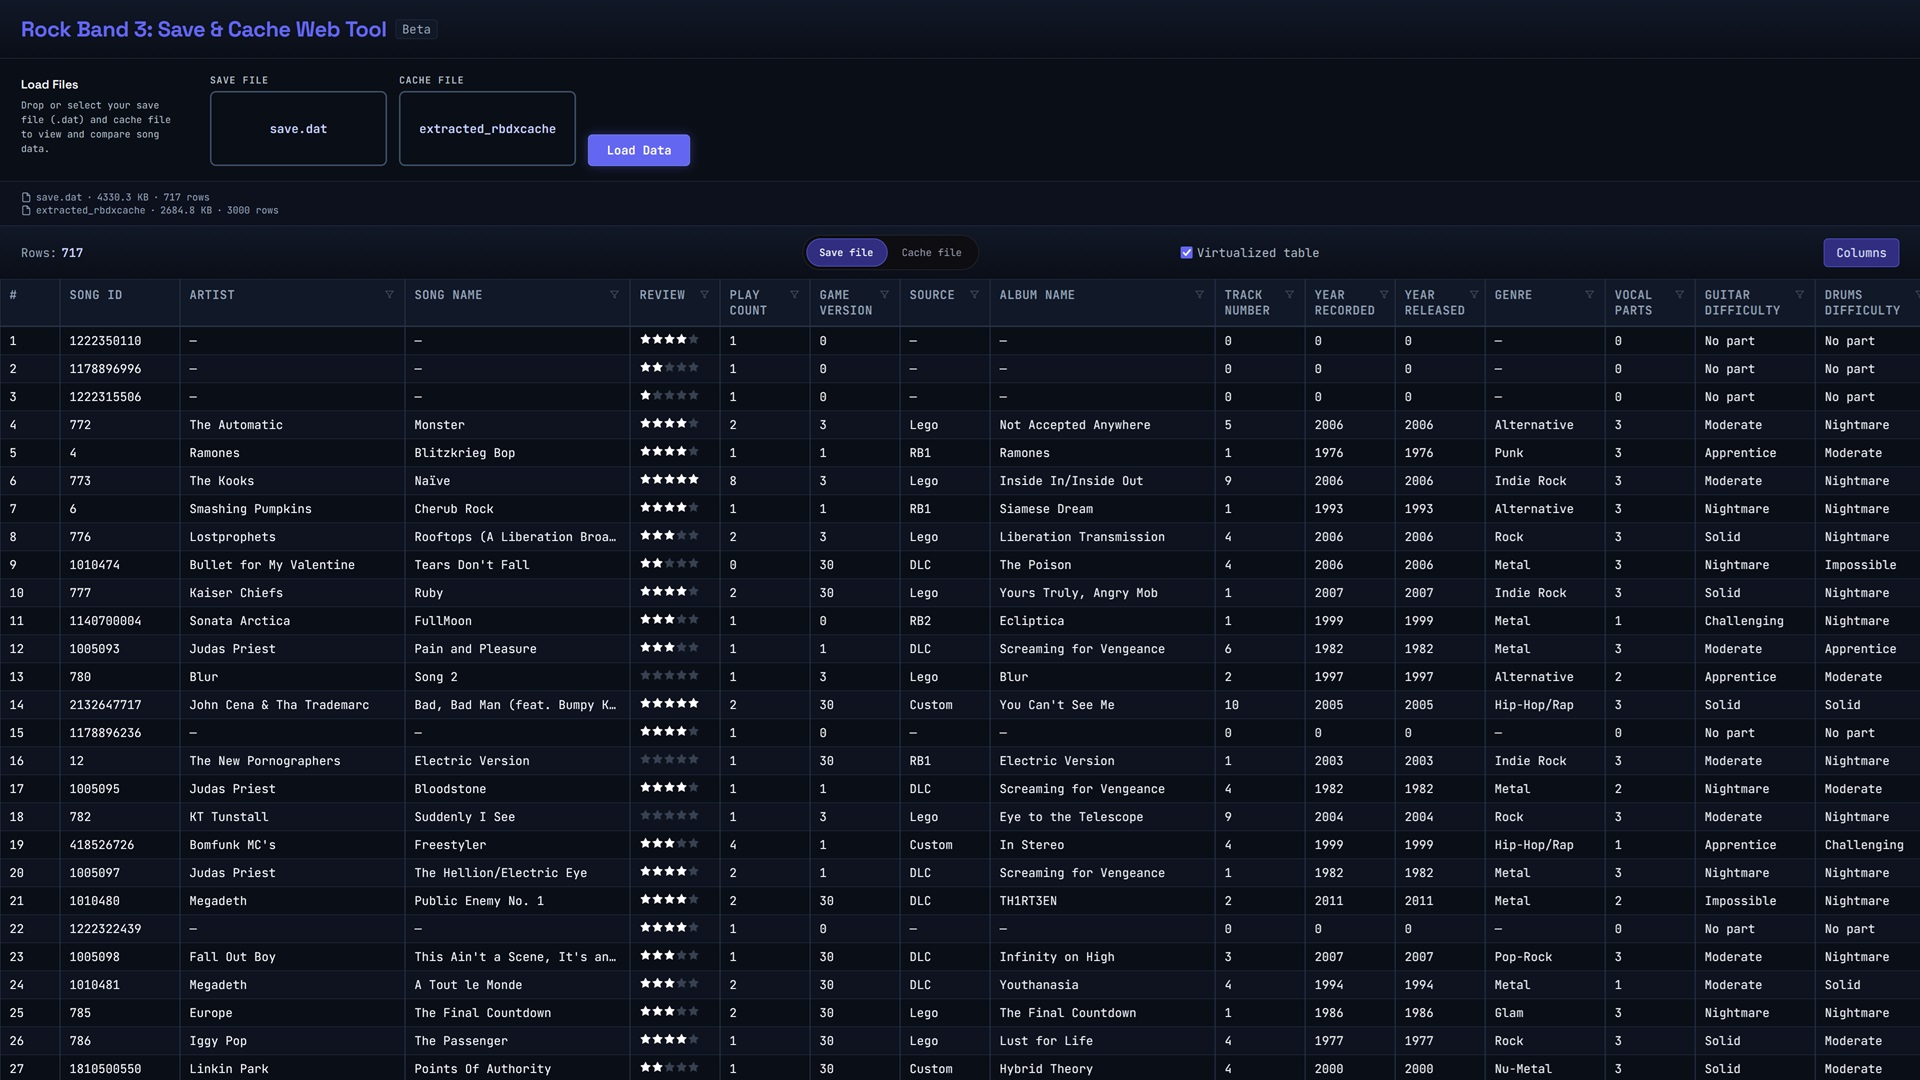
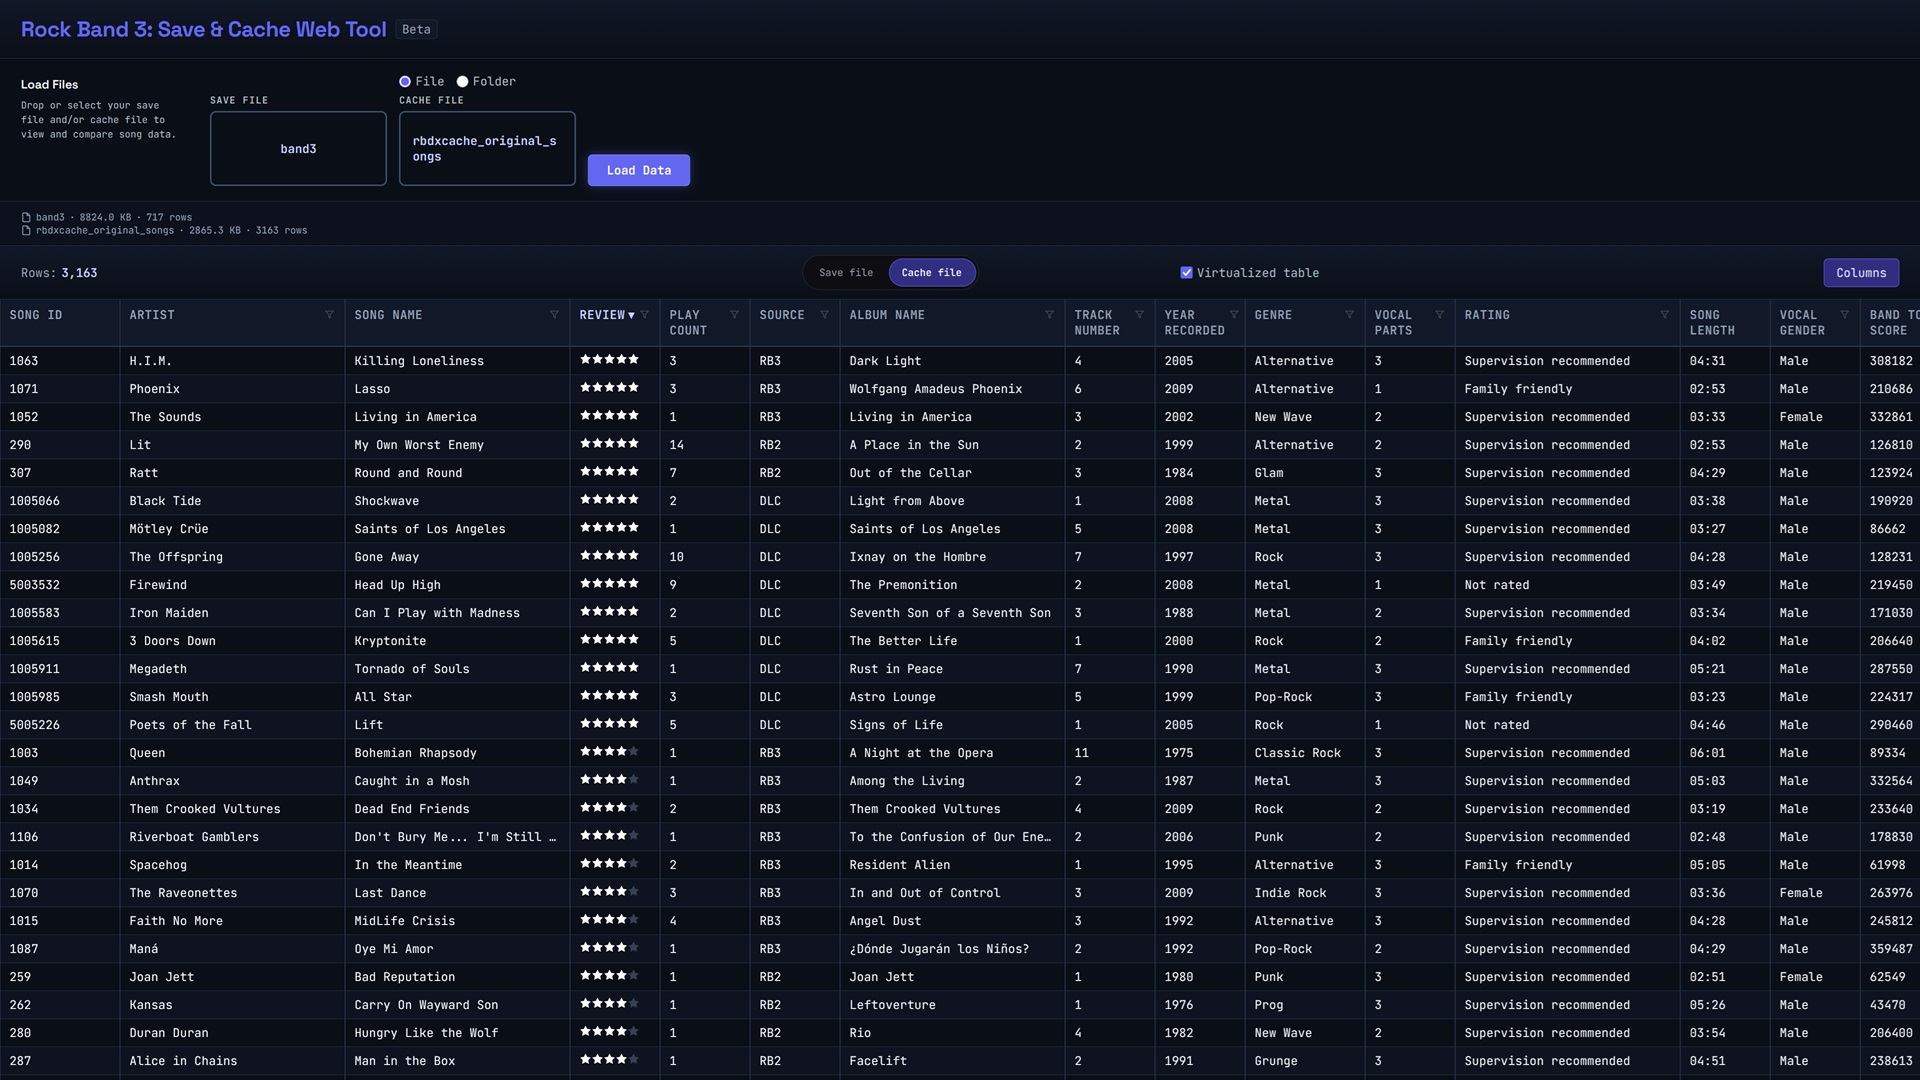
doc: update readme for new functionalities

diff --git a/README.md b/README.md
@@ -4,7 +4,7 @@
 
 ## Purpose
 
-Allows the user to read their save and cache files from Rock Band 3 and display them in a table format.
+Allows the user to read their save files, cache files, or songs.dta from Rock Band 3 and display the contents in a table format.
 
 ## Requirements
 
@@ -16,7 +16,8 @@ Allows the user to read their save and cache files from Rock Band 3 and display 
 - Xbox 360
   - Extracted save.dat
   - Extracted songcache or rbdxcache
-  - Extraction can be done by dragging and dropping the file into Nautilus. The extraction functionality (STFS) for this app is still a WIP
+  - STFS packaged band3, songcache or rbdxcache file
+  - A folder\* of .rb3con files, which will be scanned for their songs.dta files
 
 - Wii
   - band3.dat
@@ -24,10 +25,13 @@ Allows the user to read their save and cache files from Rock Band 3 and display 
 
 - PS3
   - SAVE.DAT
+  - A folder\* of songs containing their songs.dta files
 
 The files I have tested are from specific versions of the game. There might be subtle differences with older versions that could make them unreadable. Contact me if you run into an issue and I can try to add support for them.
 
-PS3 does not produce a cache file, but I'm planning to add support for a folder selector. It would go through a folder and all its subfolders to read the songs.dta file and get similar data into the table.
+The songs.dta files, while containing more information than cache files, vary in both content and formatting depending on the era and the tools used to build them. For example, official Rock Band 1 songs do not include ID numbers, which makes matching them with save data difficult. To mitigate the missing IDs, there is an [ID lookup table](./src/assets/static/OfficialSongIds.ts) for the official songs that should contain all of them (or at least 99%).. The format differences can cause issues with mapping, resulting in missing data or values that appear incorrect even when the underlying information exists.
+
+\*Folder scanning also searches all subfolders to find appropriate files.
 
 ## Usage
 
@@ -40,6 +44,8 @@ Data available in [save file](./src/types/file/SongRowSave.ts).
 Data available in [cache file](./src/types/file/SongRowCache.ts).
 
 When a cache file is provided, the Rock Band 3 on-disc songs are also read from a separate .dta file, since they are not included in the cache files.
+
+Alternatively, instead of a cache file, you can select a folder. The tool will scan the folder and all subfolders for songs.dta files. If none are found, it will switch to searching for STFS‑packaged songs and extract songs.dta files from inside them. If any valid files are found using either method, the Rock Band 3 on‑disc song metadata will be added to the results.
 
 Columns can be
 
